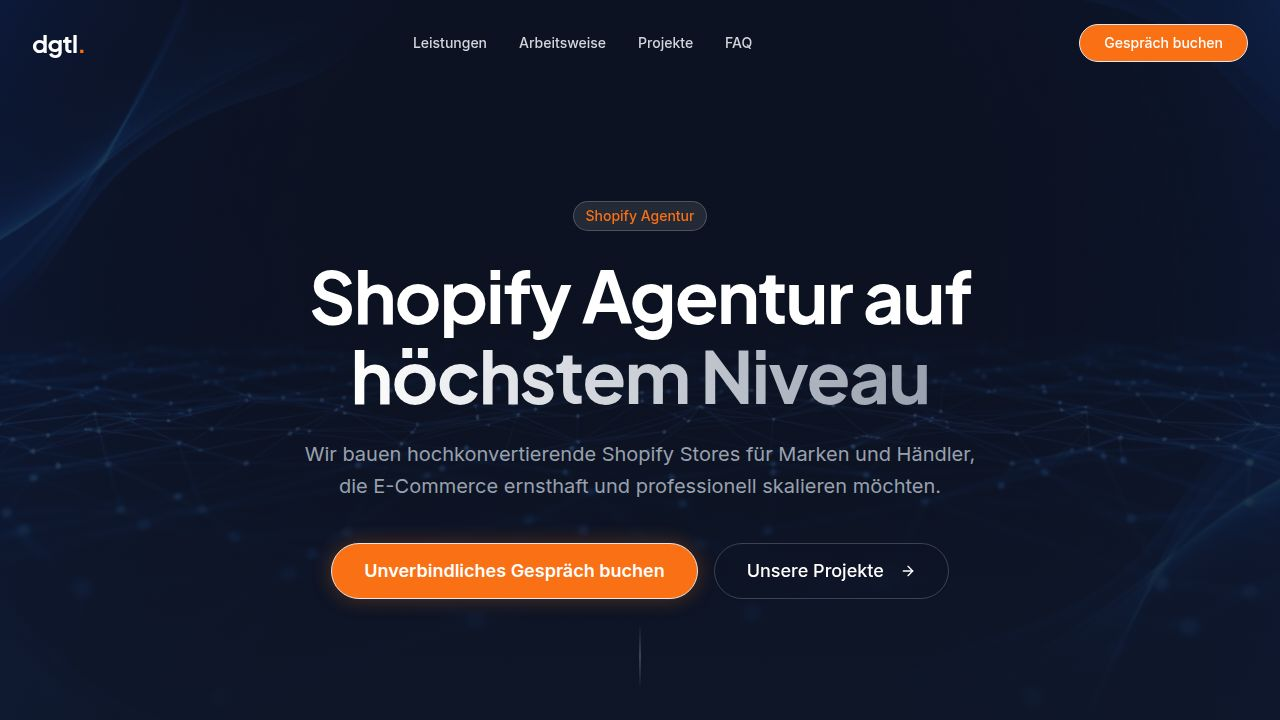
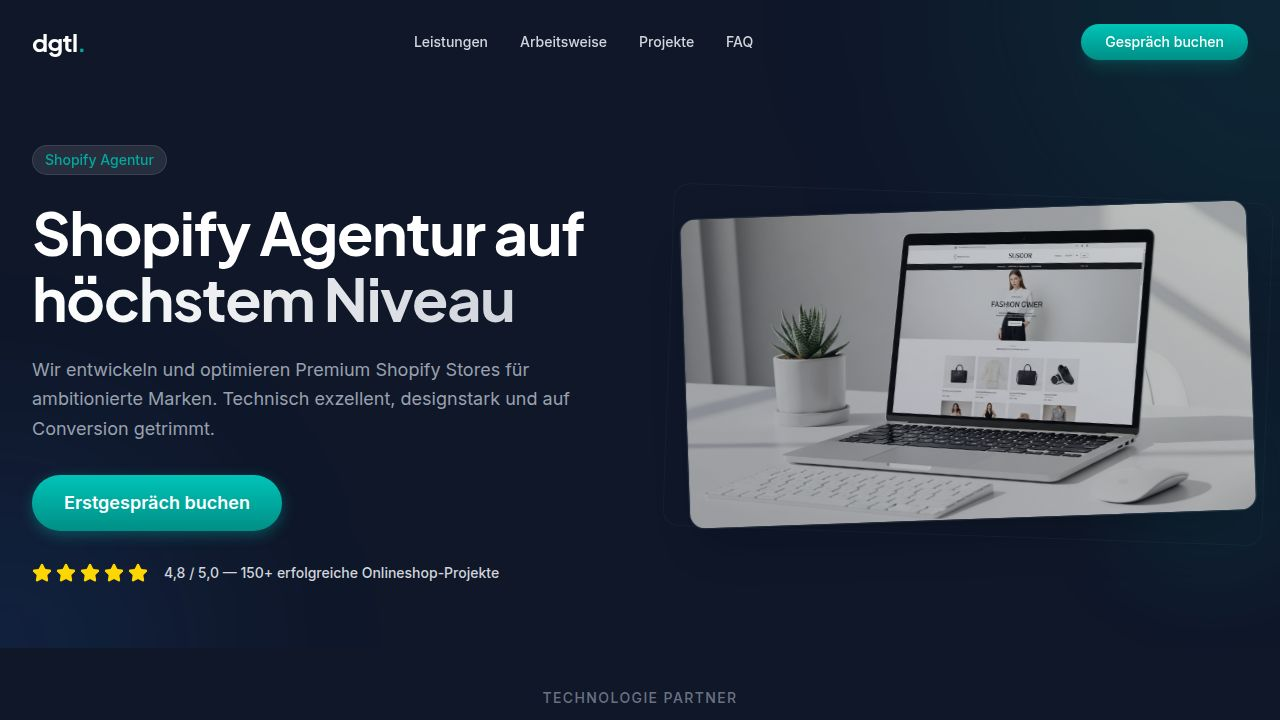
Update hero section and button styles with a new green color scheme
Modify Navbar and CTA components to use a gradient green background for buttons, and update the Hero section's layout, text, and background elements.

Replit-Commit-Author: Agent
Replit-Commit-Session-Id: be3d27b7-fa3c-4d3f-8f64-8a77c5ca4ee9
Replit-Commit-Checkpoint-Type: full_checkpoint
Replit-Commit-Event-Id: 541a5ea8-a8d1-4cca-9dde-545fede0f6c0
Replit-Commit-Screenshot-Url: https://storage.googleapis.com/screenshot-production-us-central1/3371b6d1-046a-4d81-886c-defc1ef17ccf/be3d27b7-fa3c-4d3f-8f64-8a77c5ca4ee9/tifs0bZ
Replit-Helium-Checkpoint-Created: true

diff --git a/client/src/components/sections/Hero.tsx b/client/src/components/sections/Hero.tsx
@@ -1,64 +1,86 @@
 import { motion } from "framer-motion";
 import { Button } from "@/components/ui/button";
-import { ArrowRight } from "lucide-react";
-import heroBg from "@assets/generated_images/dark_abstract_geometric_background_for_hero_section.png";
+import { Star } from "lucide-react";
+import heroImg from "@assets/generated_images/laptop_displaying_fashion_ecommerce_site.png";
 
 export function Hero() {
   return (
-    <section className="relative min-h-screen flex items-center justify-center overflow-hidden bg-secondary text-white pt-20">
-      {/* Background Image with Overlay */}
+    <section className="relative min-h-[90vh] flex items-center bg-secondary text-white overflow-hidden pt-20">
+      {/* Background Subtle Elements */}
       <div className="absolute inset-0 z-0">
-        <img
-          src={heroBg}
-          alt="Background"
-          className="w-full h-full object-cover opacity-40"
-        />
-        <div className="absolute inset-0 bg-gradient-to-b from-secondary/50 via-secondary/50 to-secondary/90" />
+        <div className="absolute top-0 right-0 w-[600px] h-[600px] bg-primary/10 rounded-full blur-[120px] -translate-y-1/2 translate-x-1/2" />
+        <div className="absolute bottom-0 left-0 w-[400px] h-[400px] bg-blue-500/10 rounded-full blur-[100px] translate-y-1/2 -translate-x-1/2" />
       </div>
 
-      <div className="container-custom relative z-10 grid lg:grid-cols-12 gap-12 items-center">
-        <div className="lg:col-span-8 lg:col-start-3 text-center">
+      <div className="container-custom relative z-10">
+        <div className="grid lg:grid-cols-2 gap-12 lg:gap-20 items-center">
+          {/* Left Column: Text Content */}
           <motion.div
-            initial={{ opacity: 0, y: 20 }}
-            animate={{ opacity: 1, y: 0 }}
+            initial={{ opacity: 0, x: -20 }}
+            animate={{ opacity: 1, x: 0 }}
             transition={{ duration: 0.6 }}
+            className="text-left"
           >
-            <span className="inline-block py-1 px-3 rounded-full bg-white/10 border border-white/20 text-primary font-medium text-sm mb-6 backdrop-blur-sm">
+            <span className="inline-block py-1 px-3 rounded-full bg-white/10 border border-white/10 text-primary font-medium text-sm mb-6 backdrop-blur-sm">
               Shopify Agentur
             </span>
             
-            <h1 className="text-4xl md:text-6xl lg:text-7xl font-bold leading-[1.1] mb-6 tracking-tight">
-              Shopify Agentur auf <br className="hidden md:block" />
-              <span className="text-transparent bg-clip-text bg-gradient-to-r from-white to-gray-400">
+            <h1 className="text-4xl md:text-5xl lg:text-6xl font-bold leading-[1.1] mb-6 tracking-tight">
+              Shopify Agentur auf <br />
+              <span className="text-transparent bg-clip-text bg-gradient-to-r from-white to-gray-300">
                 höchstem Niveau
               </span>
             </h1>
 
-            <p className="text-lg md:text-xl text-gray-400 mb-10 max-w-2xl mx-auto leading-relaxed">
-              Wir bauen hochkonvertierende Shopify Stores für Marken und Händler, 
-              die E-Commerce ernsthaft und professionell skalieren möchten.
+            <p className="text-lg text-gray-400 mb-8 max-w-xl leading-relaxed">
+              Wir entwickeln und optimieren Premium Shopify Stores für ambitionierte Marken. 
+              Technisch exzellent, designstark und auf Conversion getrimmt.
             </p>
 
-            <div className="flex flex-col sm:flex-row items-center justify-center gap-4">
-              <Button size="lg" className="bg-primary hover:bg-primary/90 text-white font-semibold text-lg px-8 h-14 rounded-full w-full sm:w-auto shadow-[0_0_20px_rgba(249,115,22,0.3)] transition-all hover:scale-105">
-                Unverbindliches Gespräch buchen
-              </Button>
-              <Button variant="outline" size="lg" className="border-white/20 text-white hover:bg-white/10 font-medium text-lg px-8 h-14 rounded-full w-full sm:w-auto backdrop-blur-sm">
-                Unsere Projekte <ArrowRight className="ml-2 h-4 w-4" />
+            <div className="flex flex-col sm:flex-row items-start gap-4 mb-8">
+              <Button 
+                size="lg" 
+                className="bg-gradient-to-b from-[#00c4b8] to-[#008f86] hover:from-[#00d6c9] hover:to-[#00a196] border-none text-white font-semibold text-lg px-8 h-14 rounded-full w-full sm:w-auto shadow-[0_4px_14px_0_rgba(0,166,156,0.39)] transition-all hover:scale-105 hover:shadow-[0_6px_20px_rgba(0,166,156,0.23)]"
+              >
+                Erstgespräch buchen
               </Button>
             </div>
+
+            <div className="flex items-center gap-4 text-sm font-medium text-gray-300">
+               <div className="flex gap-1 text-[#FFD700]">
+                  <Star className="fill-current w-5 h-5" />
+                  <Star className="fill-current w-5 h-5" />
+                  <Star className="fill-current w-5 h-5" />
+                  <Star className="fill-current w-5 h-5" />
+                  <Star className="fill-current w-5 h-5" />
+               </div>
+               <span>4,8 / 5,0 — 150+ erfolgreiche Onlineshop-Projekte</span>
+            </div>
+          </motion.div>
+
+          {/* Right Column: Visual Mockup */}
+          <motion.div
+            initial={{ opacity: 0, x: 20 }}
+            animate={{ opacity: 1, x: 0 }}
+            transition={{ duration: 0.8, delay: 0.2 }}
+            className="relative hidden lg:block"
+          >
+            <div className="relative z-10 rounded-2xl overflow-hidden shadow-2xl border border-white/10 transform rotate-[-2deg] hover:rotate-0 transition-transform duration-700 ease-out">
+              <img
+                src={heroImg}
+                alt="Shopify Store Mockup"
+                className="w-full h-auto object-cover"
+              />
+              {/* Overlay Gradient for depth */}
+              <div className="absolute inset-0 bg-gradient-to-tr from-secondary/20 to-transparent pointer-events-none" />
+            </div>
+            
+            {/* Decorative Elements behind image */}
+            <div className="absolute -inset-4 border border-white/5 rounded-2xl z-0 transform rotate-[2deg]" />
+            <div className="absolute -bottom-10 -right-10 w-40 h-40 bg-primary/20 blur-3xl rounded-full" />
           </motion.div>
         </div>
       </div>
-      
-      {/* Scroll Indicator */}
-      <motion.div 
-        className="absolute bottom-10 left-1/2 -translate-x-1/2 text-gray-500"
-        animate={{ y: [0, 10, 0] }}
-        transition={{ repeat: Infinity, duration: 2 }}
-      >
-        <div className="w-[1px] h-16 bg-gradient-to-b from-transparent via-gray-500 to-transparent"></div>
-      </motion.div>
     </section>
   );
 }

diff --git a/client/src/components/sections/CTA.tsx b/client/src/components/sections/CTA.tsx
@@ -32,7 +32,7 @@ export function CTA() {
                 ))}
               </ul>
 
-              <Button size="lg" className="bg-primary hover:bg-primary/90 text-white font-bold text-lg px-10 h-16 rounded-full w-full sm:w-auto shadow-lg hover:shadow-primary/25 transition-all">
+              <Button size="lg" className="bg-gradient-to-b from-[#00c4b8] to-[#008f86] hover:from-[#00d6c9] hover:to-[#00a196] text-white font-bold text-lg px-10 h-16 rounded-full w-full sm:w-auto shadow-lg hover:shadow-primary/25 transition-all border-none">
                 Zur Terminbuchung
               </Button>
             </div>

diff --git a/client/src/components/layout/Navbar.tsx b/client/src/components/layout/Navbar.tsx
@@ -50,7 +50,7 @@ export function Navbar() {
 
         {/* Desktop CTA */}
         <div className="hidden md:block">
-          <Button className="bg-primary hover:bg-primary/90 text-white font-medium rounded-full px-6">
+          <Button className="bg-gradient-to-b from-[#00c4b8] to-[#008f86] hover:from-[#00d6c9] hover:to-[#00a196] border-none text-white font-medium rounded-full px-6 shadow-lg shadow-primary/20">
             Gespräch buchen
           </Button>
         </div>

diff --git a/client/src/index.css b/client/src/index.css
@@ -47,8 +47,8 @@
   --popover: 0 0% 100%;
   --popover-foreground: 222 47% 11%;
 
-  /* Vibrant Orange for Primary Actions */
-  --primary: 24 95% 53%; /* #f97316 */
+  /* High Converting Green (#00a69c) */
+  --primary: 176 100% 33%;
   --primary-foreground: 0 0% 100%;
 
   /* Dark Blue for Secondary/Dark Sections */
@@ -98,7 +98,7 @@
 
   --border: 217.2 32.6% 17.5%;
   --input: 217.2 32.6% 17.5%;
-  --ring: 24 95% 53%;
+  --ring: 176 100% 33%;
 }
 
 @layer base {
